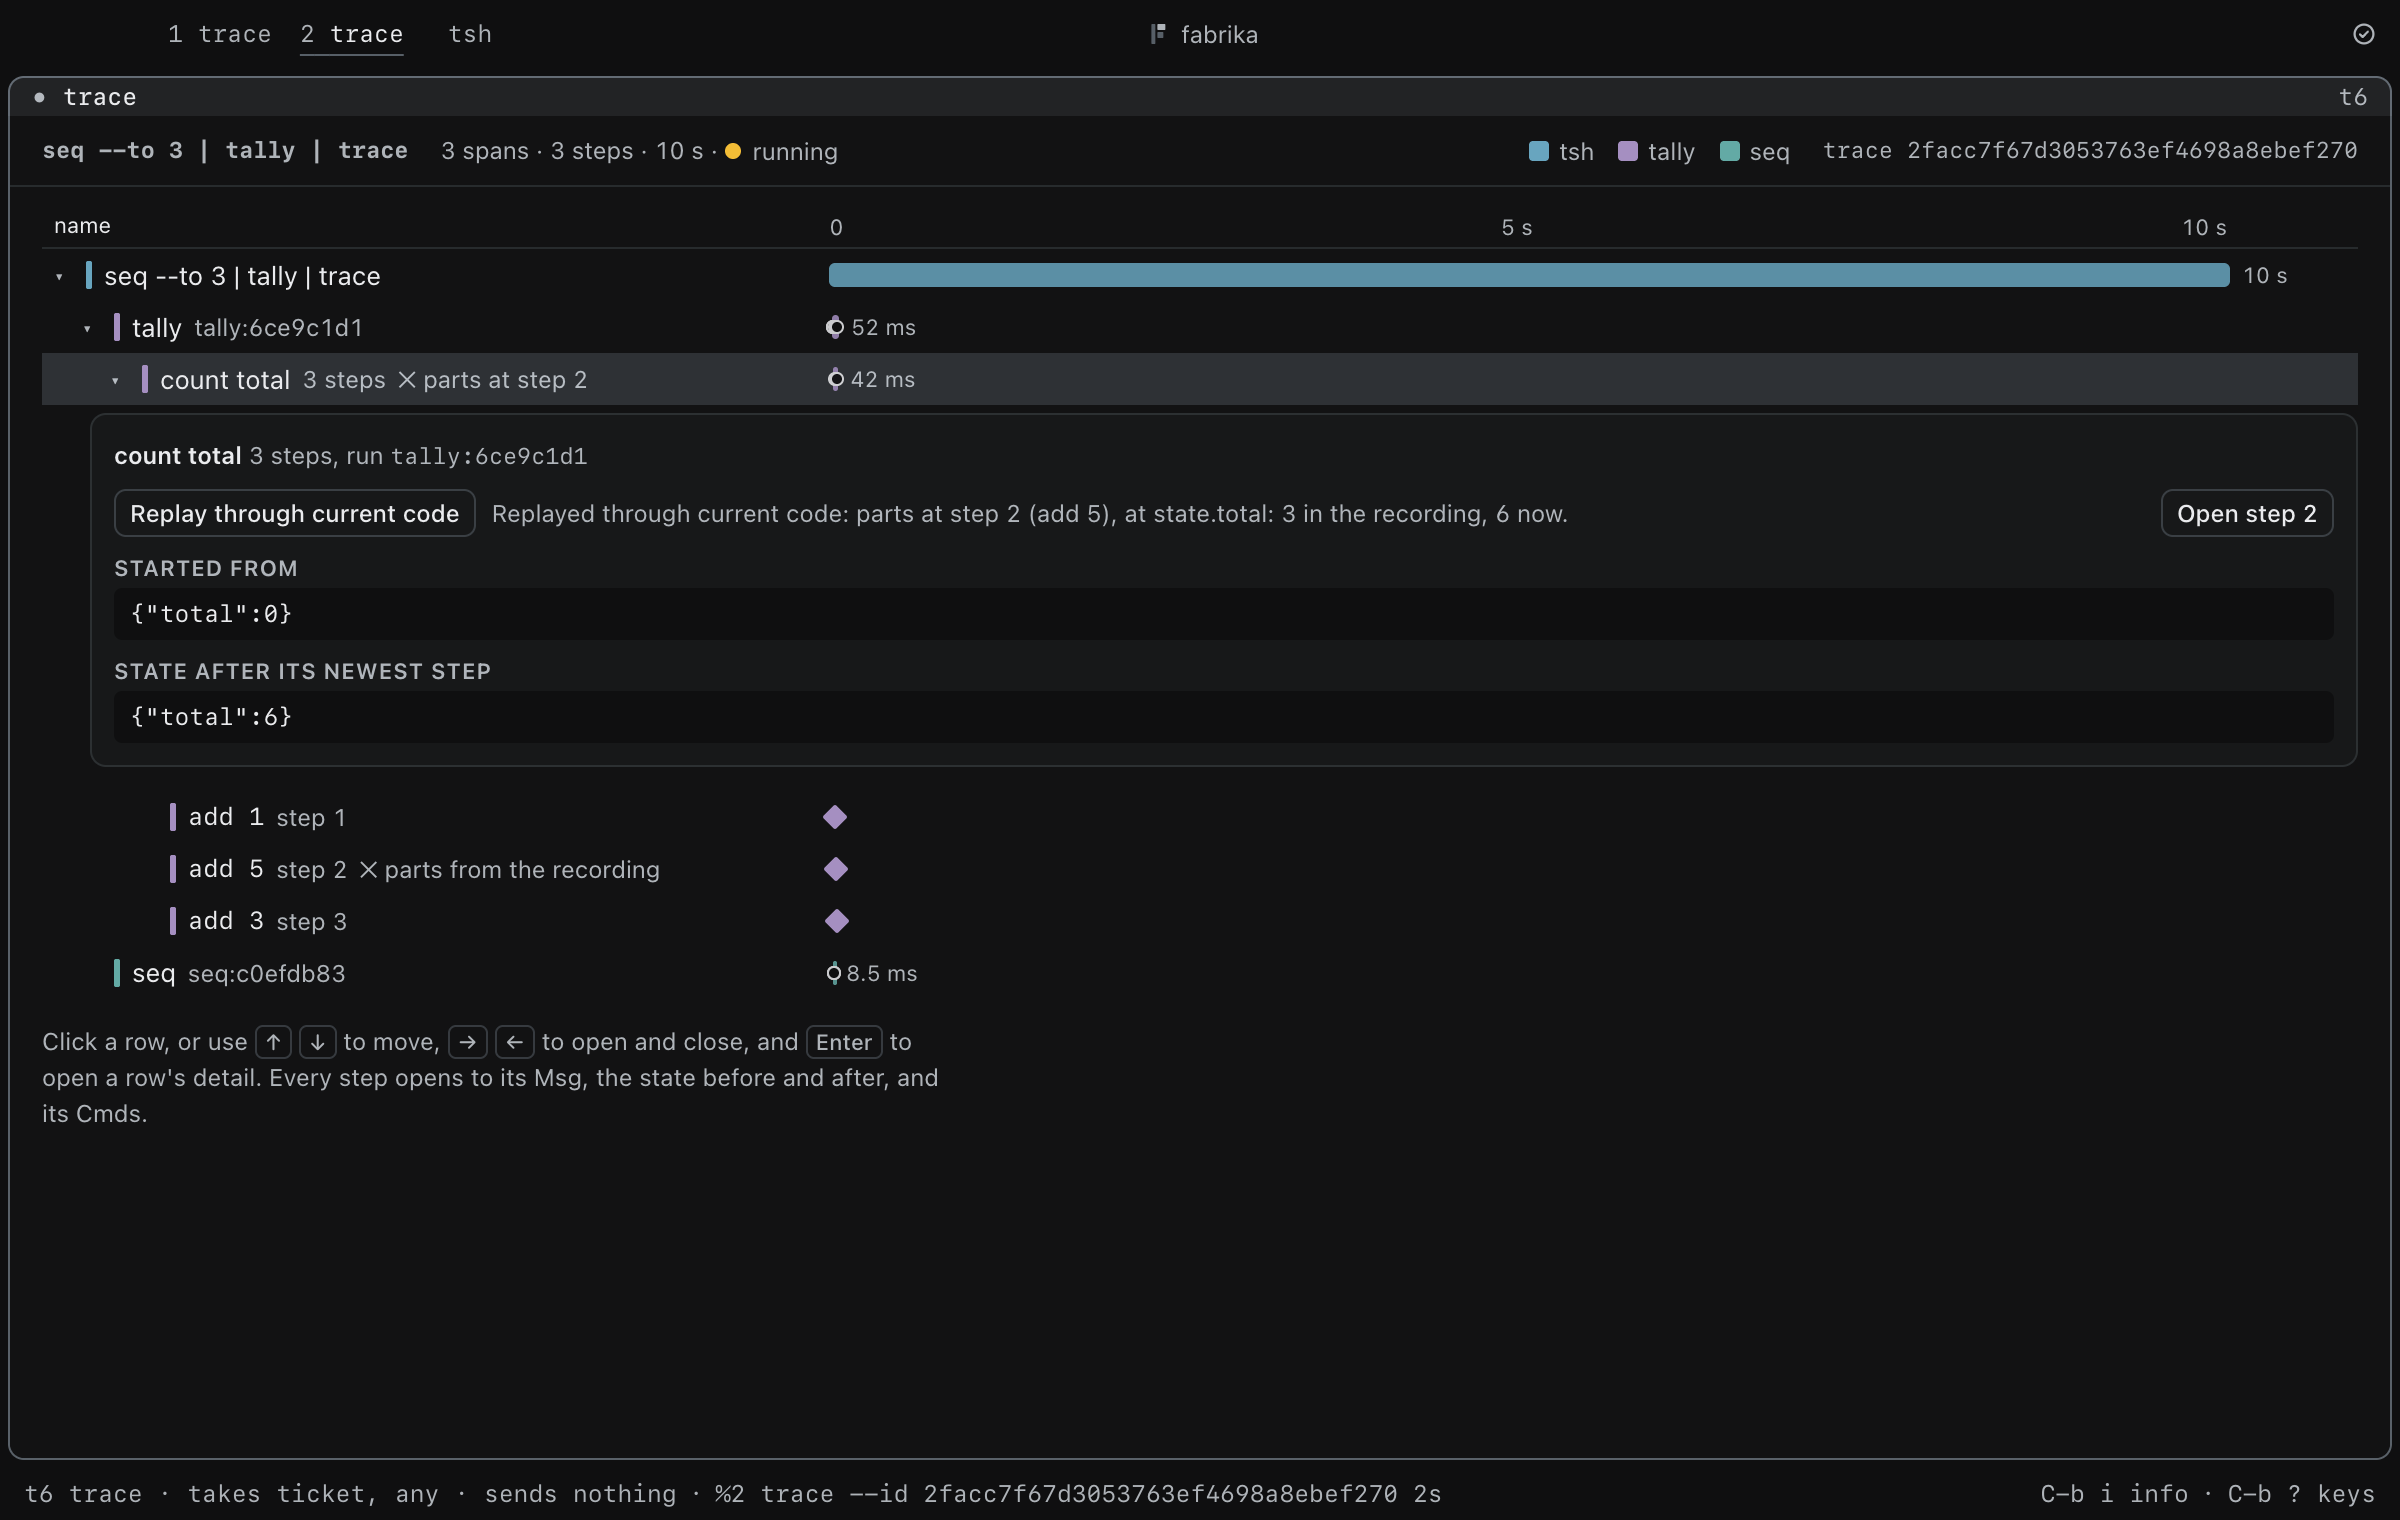
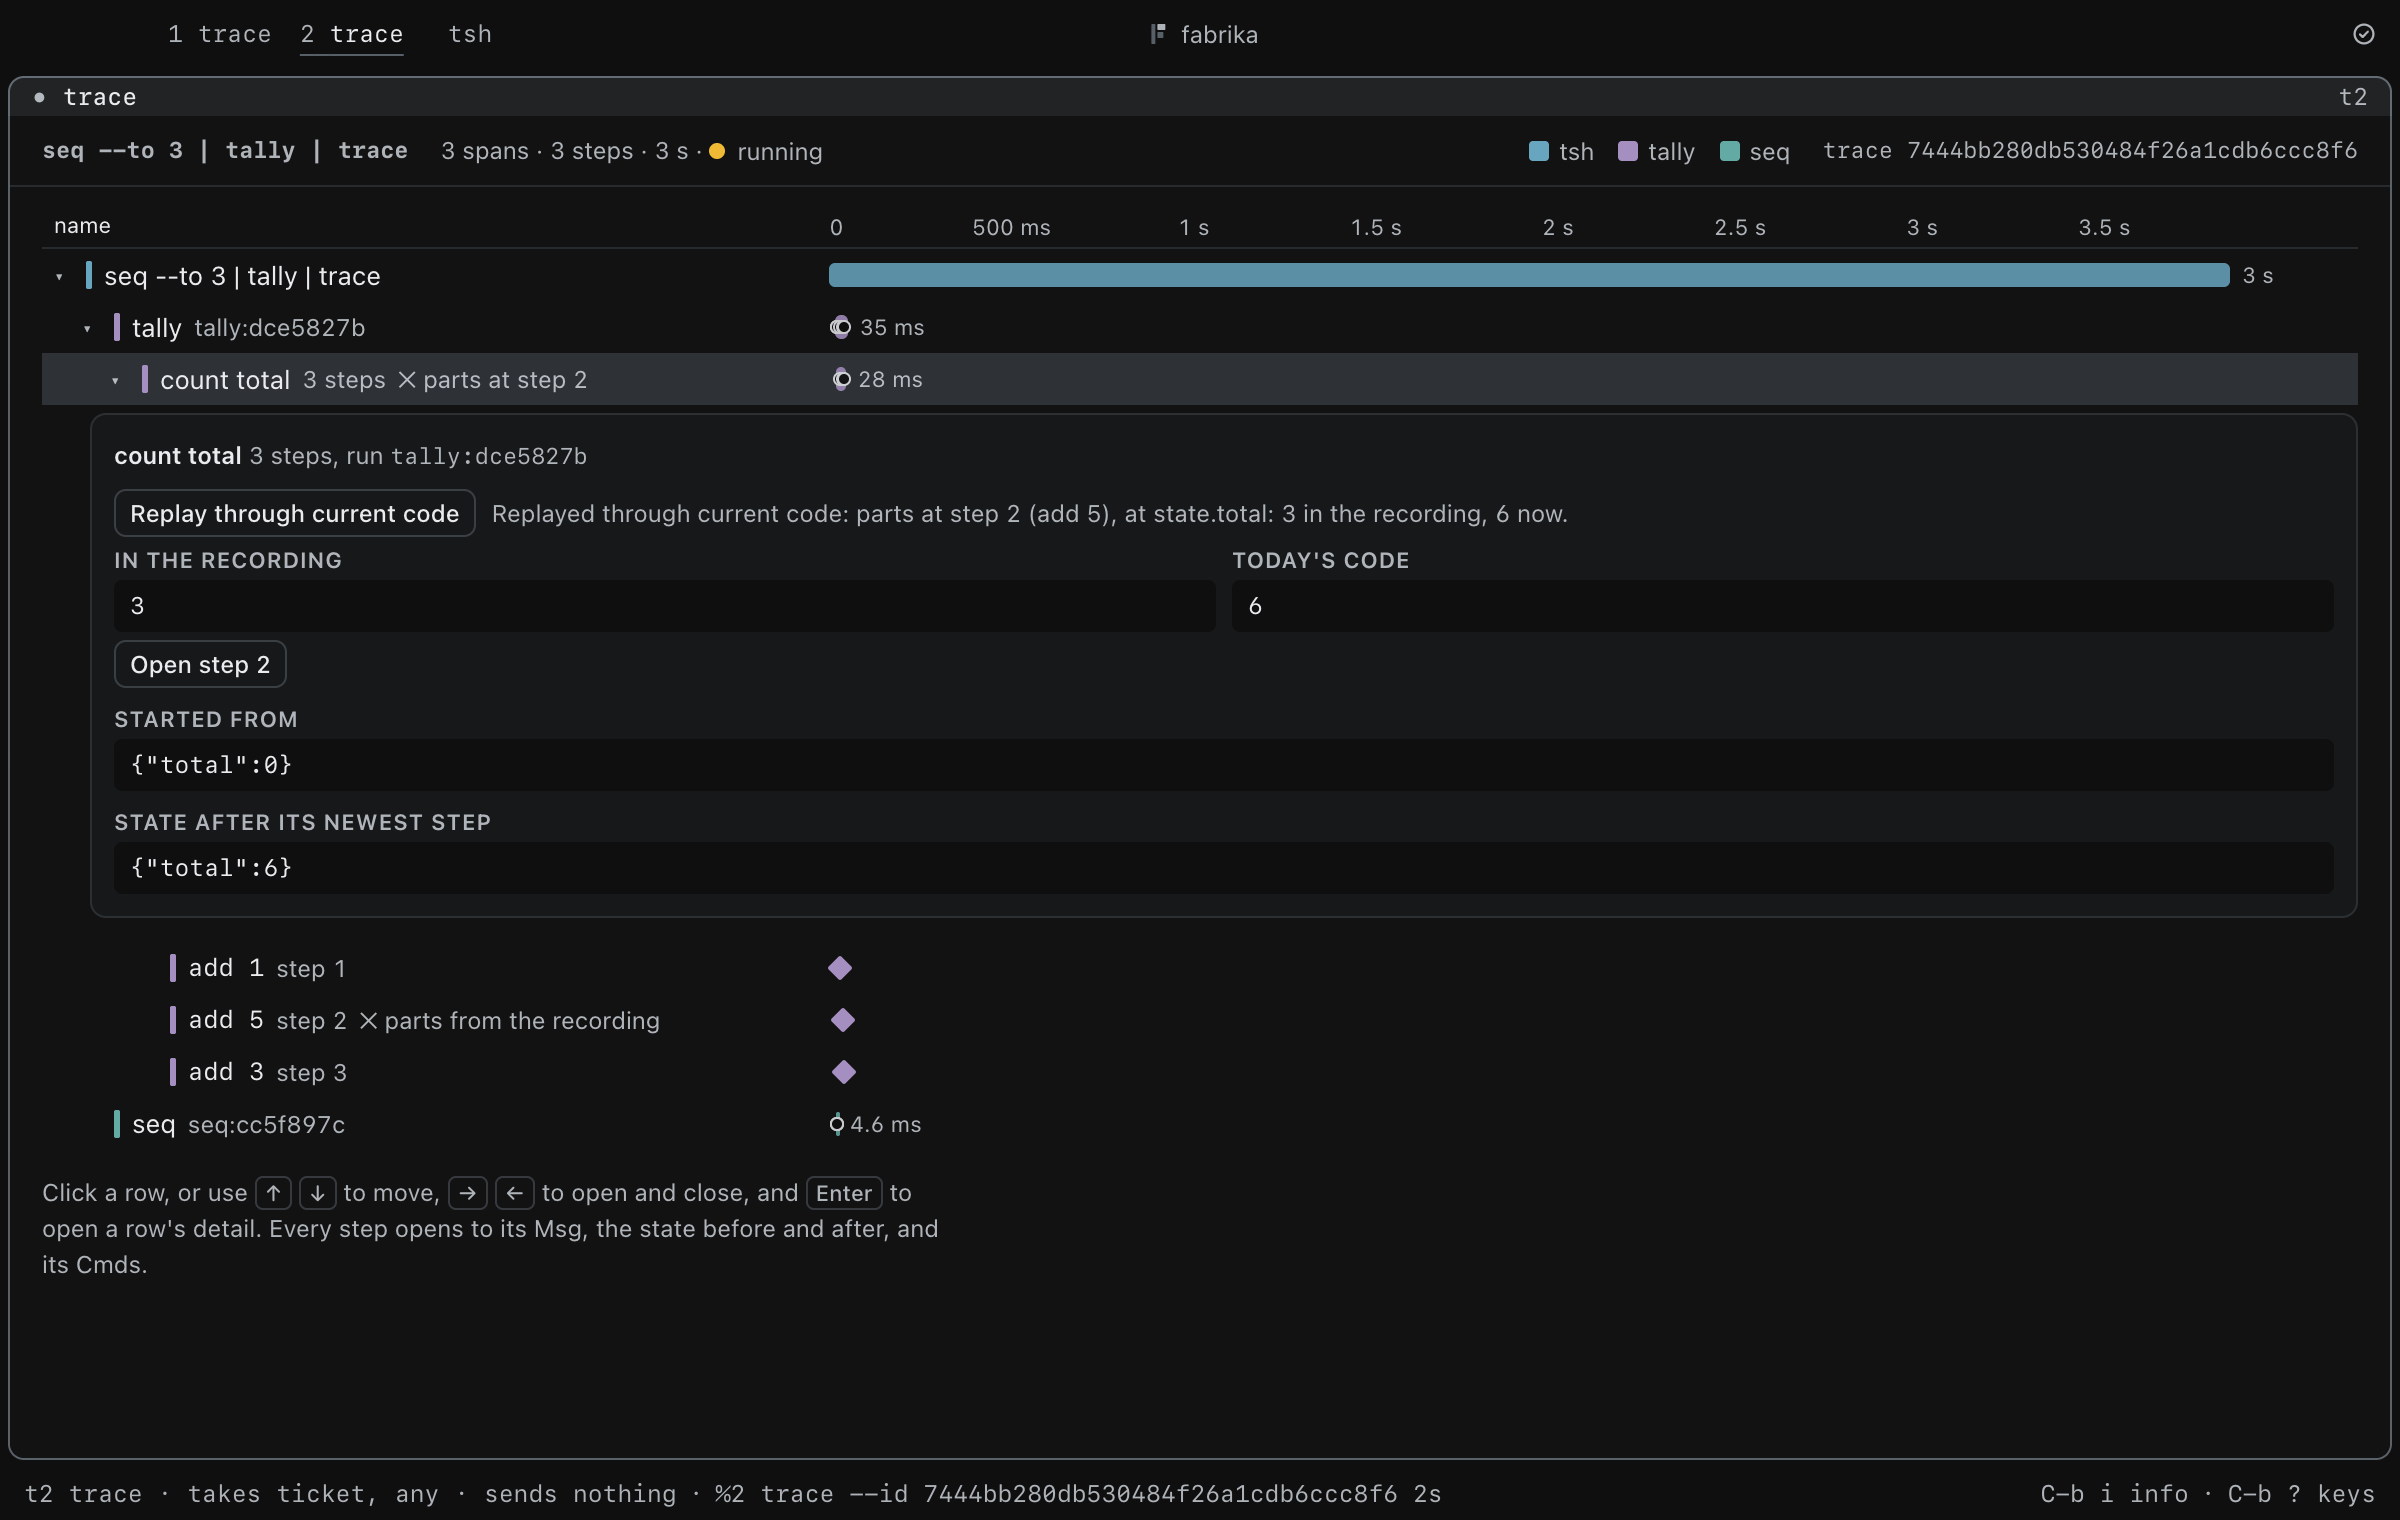
replay phase 1 build: the status region says one sentence, values that fit named in it, blocks after
- the answer's role="status" region holds its sentence alone; a parting answer's two values are
  drawn as Pre blocks just after it, outside it, before Open step
- a parts sentence names tea's path as given and both values when each fits the window's one-line
  cutoff ("at state.total: 3 in the recording, 6 now"), else says they are shown below
- the cutoff moves to json.ts (oneLine, json), so the view's sentence and the window's blocks share
  one number
- the five parts shots taken again

diff --git a/programs/trace/src/view.ts b/programs/trace/src/view.ts
@@ -11,6 +11,7 @@ import {
 } from "@kampus/fabrika-old";
 import type {Entry} from "@kampus/pipeline/tickets/ticket";
 import {Schema} from "effect";
+import {oneLine} from "./json.ts";
 import {isRunning, type Model, type Read, type Replay} from "./machine.ts";
 import {childrenOf, type Lane, type LaneRow, lanesOf, stopsOf, summaryOf} from "./ticket.ts";
 import {findOf, type Kind, msgName, type Node, nodesOf, treeOf} from "./tree.ts";
@@ -457,6 +458,18 @@ const plural = (n: number, word: string) => `${n} ${word}${n === 1 ? "" : "s"}`;
 /** What tea's refusal names a state with no tag, as tally's `{total}` is: nothing a person reads. */
 const UNTAGGED = "(untagged state)";
 
+/**
+ * The two values a replay parts on, said in its sentence when each fits on one line; a longer one
+ * is drawn below the sentence, never read out with it.
+ */
+const partsWords = (recorded: unknown, replayed: unknown): string => {
+	const was = oneLine(recorded);
+	const now = oneLine(replayed);
+	return was === null || now === null
+		? "the recording and today's code differ, shown below"
+		: `${was} in the recording, ${now} now`;
+};
+
 /** A replay's answer, said whole: what the detail's status region reads out. `null`: on its way. */
 const saysOf = (answer: Replayed | null): string => {
 	if (answer === null) return "Replaying through current code…";
@@ -464,7 +477,7 @@ const saysOf = (answer: Replayed | null): string => {
 		case "matches":
 			return `Replayed through current code: matches at every step, ${plural(answer.steps, "step")}.`;
 		case "parts":
-			return `Replayed through current code: parts at step ${answer.n} (${msgName(answer.msg)}), at ${answer.path}: the recording and today's code differ there.`;
+			return `Replayed through current code: parts at step ${answer.n} (${msgName(answer.msg)}), at ${answer.path}: ${partsWords(answer.recorded, answer.replayed)}.`;
 		case "refused":
 			return `Replayed through current code: no cell for step ${answer.n} (${msgName(answer.msg)})${answer.state === UNTAGGED ? "" : ` in ${answer.state}`}. Today's code takes ${answer.accepts.length === 0 ? "no Msg there" : answer.accepts.join(", ")}.`;
 		case "cannot":

diff --git a/programs/trace/src/window.tsx b/programs/trace/src/window.tsx
@@ -2,6 +2,7 @@ import type {WindowProps} from "@kampus/fabrika-old";
 import {Kbd} from "@manti-ui/react";
 import {Fragment, type KeyboardEvent, type ReactNode, useEffect, useRef} from "react";
 import type {trace} from "./index.ts";
+import {json} from "./json.ts";
 import {ticksOf} from "./ruler.ts";
 import type {
 	Change,
@@ -108,12 +109,6 @@ const dollars = (usd: number): string => {
 	if (usd === 0) return "no charge";
 	if (usd < 0.005) return "under $0.01";
 	return `$${usd.toFixed(2)}`;
-};
-
-/** A value as JSON: on one line when short, else indented. */
-const json = (value: unknown): string => {
-	const one = JSON.stringify(value) ?? "undefined";
-	return one.length <= 64 ? one : (JSON.stringify(value, null, 2) ?? one);
 };
 
 /** A place on an axis, as a share of its length, kept on the axis. */
@@ -365,15 +360,16 @@ function ReplayThrough({
 			>
 				Replay through current code
 			</button>
-			<div className="wf-replay-says" role="status">
-				<p>{detail.replay?.says ?? ""}</p>
-				{answer?._tag === "parts" ? (
-					<div className="wf-states">
-						<Pre label="In the recording" value={answer.recorded} />
-						<Pre label="Today's code" value={answer.replayed} />
-					</div>
-				) : null}
-			</div>
+			{/* A status region is read whole on every change, so it holds the one sentence alone. */}
+			<p className="wf-replay-says" role="status">
+				{detail.replay?.says ?? ""}
+			</p>
+			{answer?._tag === "parts" ? (
+				<div className="wf-states wf-replay-values">
+					<Pre label="In the recording" value={answer.recorded} />
+					<Pre label="Today's code" value={answer.replayed} />
+				</div>
+			) : null}
 			{step === null ? null : (
 				<button
 					type="button"

diff --git a/programs/trace/src/json.ts b/programs/trace/src/json.ts
@@ -1,0 +1,12 @@
+/** The most characters a value's JSON takes on one line: a longer one is drawn indented. */
+const ONE_LINE = 64;
+
+/** A value's JSON on one line, when it fits there. `null`: longer than one line holds. */
+export const oneLine = (value: unknown): string | null => {
+	const one = JSON.stringify(value) ?? "undefined";
+	return one.length <= ONE_LINE ? one : null;
+};
+
+/** A value as JSON: on one line when short, else indented. */
+export const json = (value: unknown): string =>
+	oneLine(value) ?? JSON.stringify(value, null, 2) ?? "undefined";

diff --git a/apps/fabrika/src/window/window.css b/apps/fabrika/src/window/window.css
@@ -3610,6 +3610,12 @@ main.program:has(> .view) {
 	overflow-wrap: anywhere;
 }
 
+/* The values a replay parts on: a line of their own under its sentence. */
+.trace-view .wf-replay-values {
+	flex: 1 1 100%;
+	min-inline-size: 0;
+}
+
 .trace-view .wf-track {
 	position: relative;
 	block-size: 26px;
